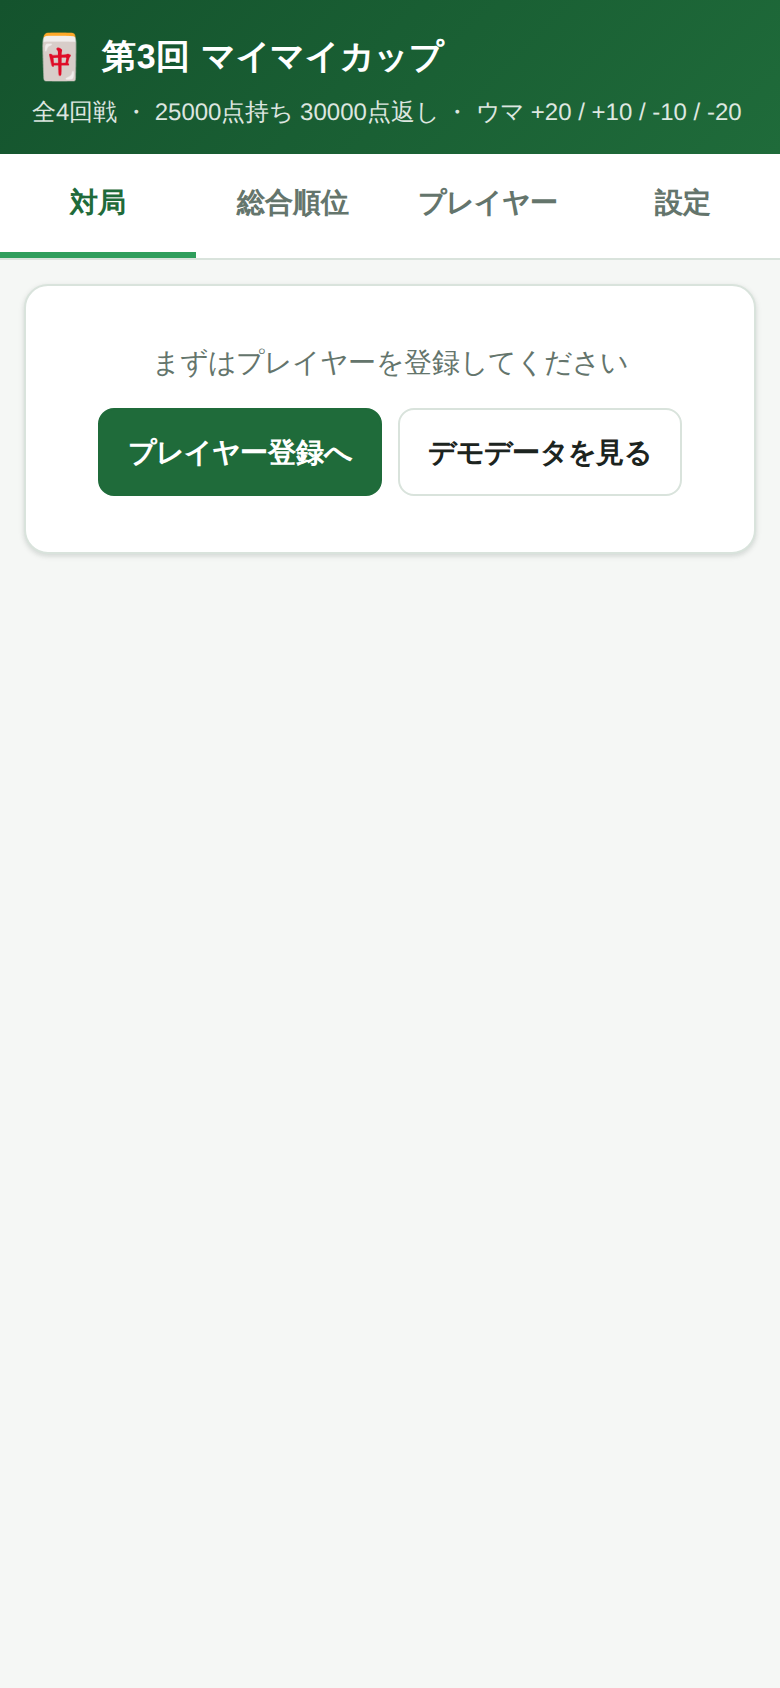
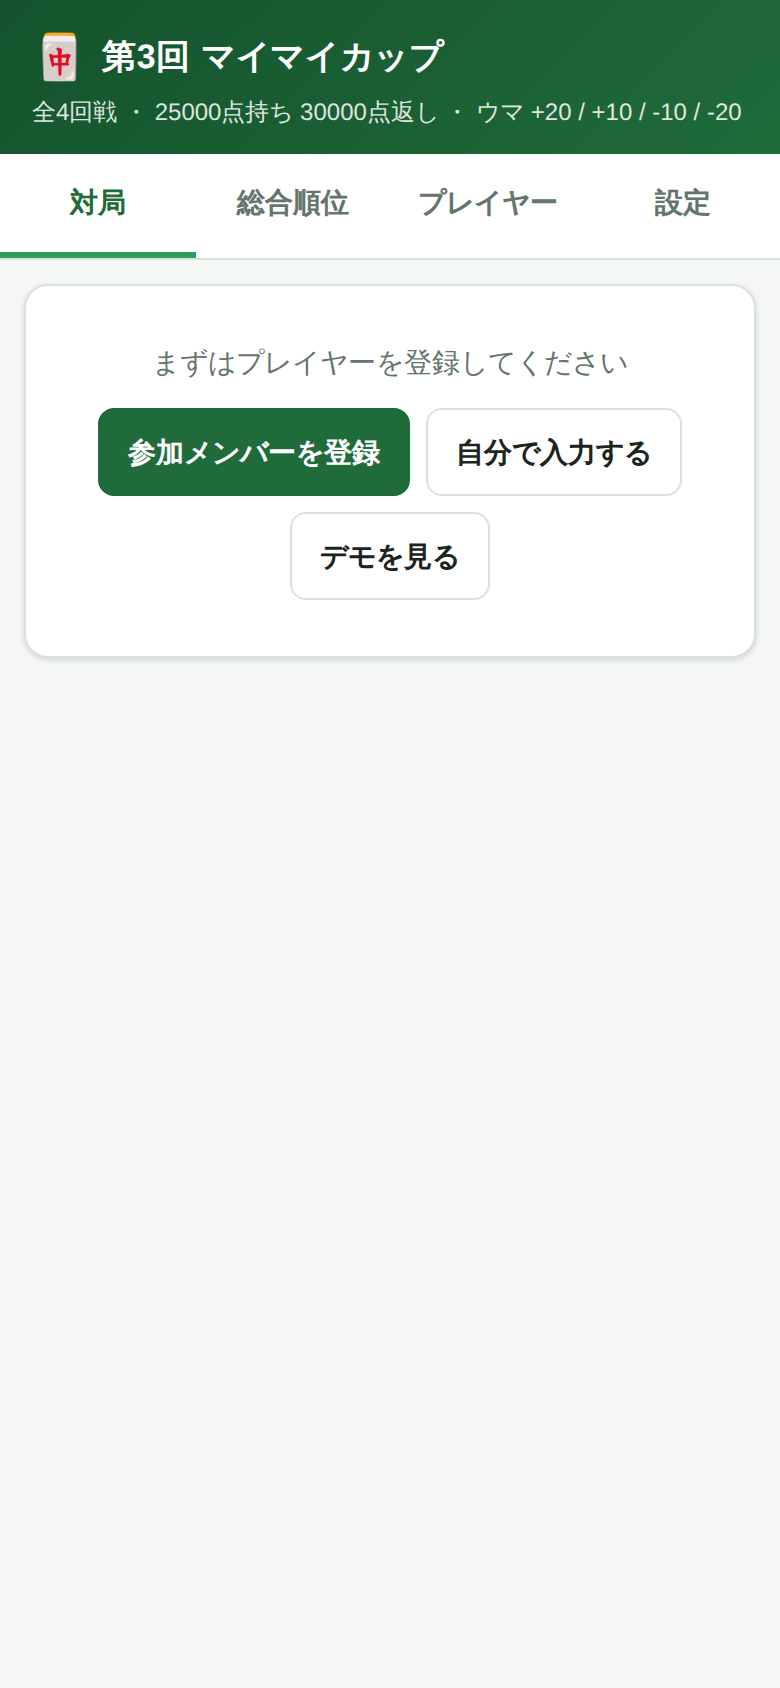
参加メンバー27名を登録できるようにした
いただいた名簿27名をアプリに組み込み、ワンタップで登録できるようにした。
登録後はこれまでどおり名前の変更・追加・削除が自由にできる。

- 「参加メンバー27人を読み込む」ボタンを追加。名簿だけを登録するので、
  そのまま本番の大会を始められる（デモデータとは別ボタンに分離）
- 名前は前後の空白と全角スペースの混在を整えて登録
- デモデータも同じ27名に差し替え。6卓ぶんの点数を用意し、
  4の倍数でない人数でも成立するよう末尾を抜け番にする処理を追加
- マニュアルを新しい登録手順に合わせて更新し、画面写真を撮り直した
- 抜け番の有利不利についてFAQに追記

27人での動作を確認済み。毎回6卓+抜け番3人で組まれ、4回戦を通すと
12人がちょうど1回ずつ抜け番になり、2回当たる人は出ない。
全員の合計ポイントも 6卓 x 4回戦 x -20 = -480 と一致した。

Claude-Session: https://claude.ai/code/session_01Puvh5ASEsPdmLmvmrEAk2k

Changed region(s): [[0.1538, 0.2156, 0.8, 0.3389], [0.0308, 0.3081, 0.0615, 0.3389]]

diff --git a/app.js b/app.js
@@ -73,39 +73,50 @@ function save() {
 }
 
 /* --------------------------------------------------------------------------
-   デモデータ（プレビュー用）
-   参加者名は仮のものです。実際のメンバーに差し替えて使ってください。
+   参加メンバー / デモデータ
+   メンバーはここを書き換えるか、アプリの「プレイヤー」タブから自由に
+   追加・変更・削除できます。
    -------------------------------------------------------------------------- */
 
-const DEMO_PLAYERS = [
-  '佐藤', '鈴木', '高橋', '田中',
-  '伊藤', '渡辺', '山本', '中村',
-  '小林', '加藤', '吉田', '山田',
-  '佐々木', '山口', '松本', '井上',
+const TOURNAMENT_MEMBERS = [
+  '小林 久倫', '上之正信', '内田敬之',
+  'まさつぐ', '有川 裕幸', '田原 謙一',
+  '岩重 雄也', '加藤 佳太', '永田 ひろき',
+  '永田 亮介', '室屋 祐介', '宮林',
+  '重留 巧治', '諸町 俊貴', '前畑 舞',
+  '田中 辰', '盛山', '久保 昭博',
+  '川原 結樹', '麦生田', '福田 正寛',
+  '藤崎 祥昭', 'こまがた', '笹原 彰朗',
+  '山川 忠雄', '山﨑 徹', '福ヶ迫 公彰',
 ];
 
-// 1卓ぶんの持ち点（合計100,000点）。デモを毎回同じ見た目にするため固定値を使う。
+// 1卓ぶんの持ち点（どの卓も合計100,000点）。デモの見た目を安定させるため固定値を使う。
 const DEMO_SCORES = {
   round1: [
     [42300, 28900, 21800, 7000],
     [35600, 31200, 19700, 13500],
     [48100, 25400, 16800, 9700],
     [38900, 27300, 22400, 11400],
+    [44200, 26600, 18900, 10300],
+    [33700, 32100, 20500, 13700],
   ],
   round2: [
     [51200, 26800, 13500, 8500],
     [33400, 30100, 24200, 12300],
     [45700, 24900, 18600, 10800],
     [39200, 28600, 21100, 11100],
+    [36500, 29800, 22700, 11000],
+    [47300, 25100, 17200, 10400],
   ],
   // 3回戦は途中まで入力した状態にして、リアルタイム集計の様子を見せる
   round3: [
     [44500, 27200, 17300, 11000],
     [36800, 29400, 20500, 13300],
+    [41600, 28200, 19400, 10800],
   ],
 };
 
-const DEMO_CHIPS = { 2: 3, 5: -1, 9: 1 }; // プレイヤーの並び順 → チップ枚数
+const DEMO_CHIPS = { 2: 3, 5: -1, 9: 1, 14: 2 }; // 並び順 → チップ枚数
 
 /* --------------------------------------------------------------------------
    Utilities
@@ -470,6 +481,27 @@ function compareTotal(a, b, standings) {
 }
 
 /**
+ * 参加メンバーを一括登録する（点数は入れない、本番用）。
+ * 登録後は「プレイヤー」タブで自由に追加・変更・削除できる。
+ */
+function loadMembers() {
+  if (state.players.length &&
+      !confirm('現在の登録内容と対局結果をすべて消して、参加メンバーを読み込みます。よろしいですか？')) {
+    return;
+  }
+  const settings = state.settings;
+  state = defaultState();
+  state.settings = settings;
+  state.players = TOURNAMENT_MEMBERS.map(name => ({ id: uid(), name, chips: 0 }));
+  currentRound = 0;
+  swapSel = null;
+  save();
+  renderAll();
+  switchView('players');
+  toast(`${state.players.length}人を登録しました`);
+}
+
+/**
  * プレビュー用のデモデータを読み込む。
  * 1〜2回戦を確定させ、3回戦を途中まで入力した「大会の最中」の状態を作る。
  */
@@ -481,16 +513,19 @@ function loadDemoData() {
 
   state = defaultState();
   state.settings.title = '第3回 マイマイカップ（デモ）';
-  state.players = DEMO_PLAYERS.map(name => ({ id: uid(), name, chips: 0 }));
+  state.players = TOURNAMENT_MEMBERS.map(name => ({ id: uid(), name, chips: 0 }));
   for (const [idx, chips] of Object.entries(DEMO_CHIPS)) {
     if (state.players[idx]) state.players[idx].chips = chips;
   }
 
-  // 1回戦は登録順どおりに着席させる（デモなので抽選せず毎回同じ並びにする）
+  // 1回戦は登録順どおりに着席させる（デモなので抽選せず毎回同じ並びにする）。
+  // 4の倍数に満たないぶんは、末尾の人を抜け番にする。
+  const ids = state.players.map(p => p.id);
+  const seatedCount = Math.floor(ids.length / SEATS) * SEATS;
   const round1 = ensureRound(0);
   round1.method = 'random';
-  round1.byes = [];
-  round1.tables = chunk(state.players.map(p => p.id), SEATS).map((seats, i) => ({
+  round1.byes = ids.slice(seatedCount);
+  round1.tables = chunk(ids.slice(0, seatedCount), SEATS).map((seats, i) => ({
     id: uid(),
     no: i + 1,
     seats,
@@ -530,8 +565,9 @@ function renderMatch() {
       el('div', { class: 'empty' },
         el('div', { text: 'まずはプレイヤーを登録してください' }),
         el('div', { class: 'row', style: 'margin-top:12px;justify-content:center' },
-          el('button', { class: 'btn primary', onclick: () => switchView('players') }, 'プレイヤー登録へ'),
-          el('button', { class: 'btn', onclick: loadDemoData }, 'デモデータを見る')
+          el('button', { class: 'btn primary', onclick: loadMembers }, '参加メンバーを登録'),
+          el('button', { class: 'btn', onclick: () => switchView('players') }, '自分で入力する'),
+          el('button', { class: 'btn ghost', onclick: loadDemoData }, 'デモを見る')
         )
       )
     ));
@@ -1030,9 +1066,12 @@ function renderPlayers() {
         ? el('p', { class: 'hint' }, `⚠ 現在${state.players.length}人です。4の倍数でない分は自動で抜け番になります。`)
         : null,
       el('div', { class: 'row', style: 'margin-top:10px' },
-        el('button', { class: 'btn small', onclick: loadDemoData }, 'デモデータを読み込む'),
-        el('span', { class: 'hint', style: 'margin:0' }, '16人ぶんの対局例を一括で読み込みます')
-      )
+        el('button', { class: 'btn small', onclick: loadMembers },
+          `参加メンバー${TOURNAMENT_MEMBERS.length}人を読み込む`),
+        el('button', { class: 'btn small ghost', onclick: loadDemoData }, 'デモデータを読み込む')
+      ),
+      el('p', { class: 'hint' },
+        '「参加メンバー」は名簿だけを登録します。読み込んだあとで自由に追加・変更・削除できます。')
     )
   ));
 

diff --git a/MANUAL.md b/MANUAL.md
@@ -33,39 +33,46 @@
 | **プレイヤー** | 参加者の登録、チップの増減 |
 | **設定** | ウマ・回戦数・賞金などの変更 |
 
-> **まず試してみたいとき**
-> 「デモデータを見る」を押すと、16人ぶんの大会例がすぐに表示されます。
-> 操作を試してから本番データに入れ替えられます（本番で使うときは、
-> 設定タブの「対局結果をリセット」で消してから始めてください）。
+> **ボタンの使い分け**
+> - **参加メンバーを登録** … 名簿だけを登録して本番を始める
+> - **自分で入力する** … 名前を手入力する
+> - **デモを見る** … 点数まで入った大会例を表示して操作を試す
+>
+> デモを見たあと本番を始めるときは、設定タブの「対局結果をリセット」で
+> 対局結果を消してから始めてください（プレイヤーは残ります）。
 
 ---
 
 ## 2. プレイヤーを登録する
 
-**プレイヤー**タブを開きます。1人ずつ名前を入れて「追加」でも登録できますが、
-人数が多いときは**まとめて追加**が早いです。
+**プレイヤー**タブを開き、**「参加メンバー27人を読み込む」**を押すだけで名簿が入ります。
 
-<img src="docs/images/02-players-bulk.png" width="320" alt="まとめて追加">
+<img src="docs/images/02-members-loaded.png" width="320" alt="参加メンバーの読み込み">
 
-「まとめて追加」を開いて、名前を**改行区切り**で貼り付け →「この内容で追加」。
+読み込んだあとは**自由に編集できます**。
 
-```
-佐藤
-鈴木
-高橋
-田中
-```
+- **名前の修正**：名前欄をタップして書き換える
+- **追加**：上の入力欄に名前を入れて「追加」
+- **削除**：右の「削除」ボタン
+- **チップの増減**：`−` `＋` ボタン（役満ボーナスやチョンボの記録に使います）
 
 <img src="docs/images/03-players-list.png" width="320" alt="登録済みプレイヤー一覧">
 
-登録すると一覧になります。ここでできること：
+当日の欠席・飛び入りがあっても、その場で直せます。
 
-- **名前の修正**：名前欄を直接書き換える
-- **チップの増減**：`−` `＋` ボタン（役満ボーナスやチョンボの記録に使います）
-- **削除**：その人を大会から外す
+> **別の名簿を使いたいとき**
+> 「まとめて追加」を開き、名前を**改行区切り**で貼り付ければ一括登録できます。
+>
+> ```
+> 佐藤
+> 鈴木
+> 高橋
+> ```
 
-> 人数が4の倍数でないときは警告が出ます。そのままでも進められて、
-> あぶれた人は**自動で抜け番**になります（その回戦はポイント加算なし）。
+> **人数が4の倍数でないとき**
+> 警告が出ますが、そのまま進められます。あぶれた人は**自動で抜け番**になり、
+> 抜け番の回数が少ない人から優先して選ばれるので、特定の人に偏りません。
+> 27人なら **6卓 + 抜け番3人** になります。
 
 ---
 
@@ -198,4 +205,12 @@
 
 **Q. 参加者が4の倍数じゃない**
 そのまま進められます。あぶれた人は自動で**抜け番**になり、
-抜け番の回数が少ない人から優先的に選ばれます。
+抜け番の回数が少ない人から優先的に選ばれます。27人なら毎回6卓 + 抜け番3人で、
+4回戦なら12人がちょうど1回ずつ抜け番になります（2回当たる人は出ません）。
+
+**Q. 抜け番の人は不利／有利になりませんか**
+初期設定（オカなし）では、1卓の合計が −20pt になります。そのぶん、
+対局した人は平均 −5pt を負担し、抜け番の人はそれを免れるため、
+**抜け番1回につきおよそ +5pt 有利**になります。
+気になる場合は、設定タブの**「オカあり」をオンにしてください**。
+1卓の合計が ±0 になり、抜け番による有利不利がなくなります。
